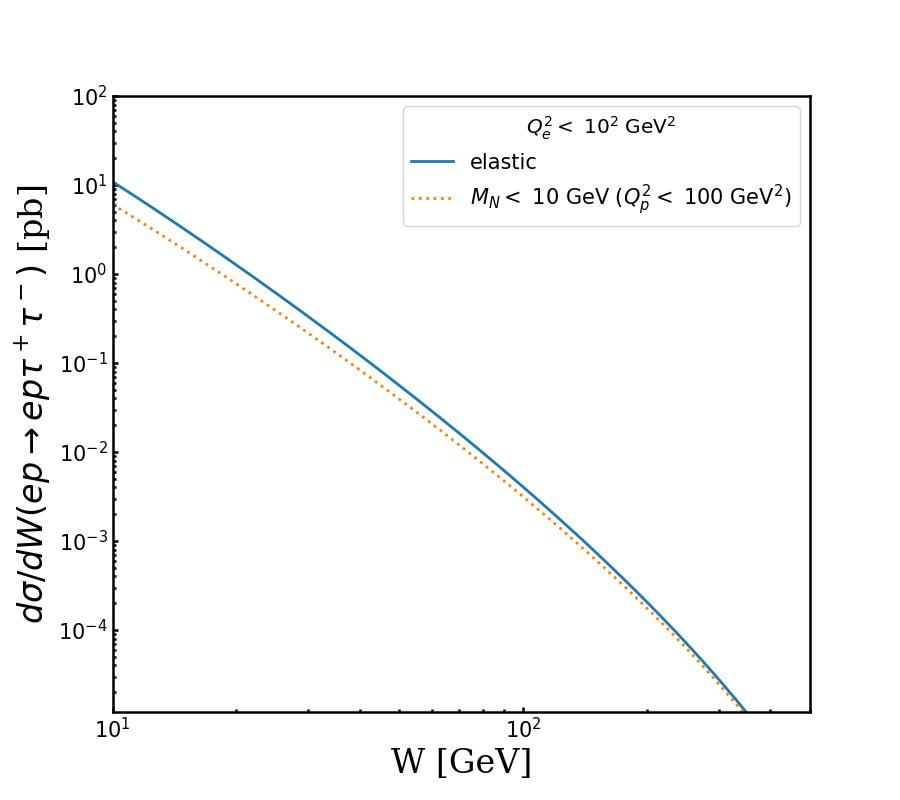
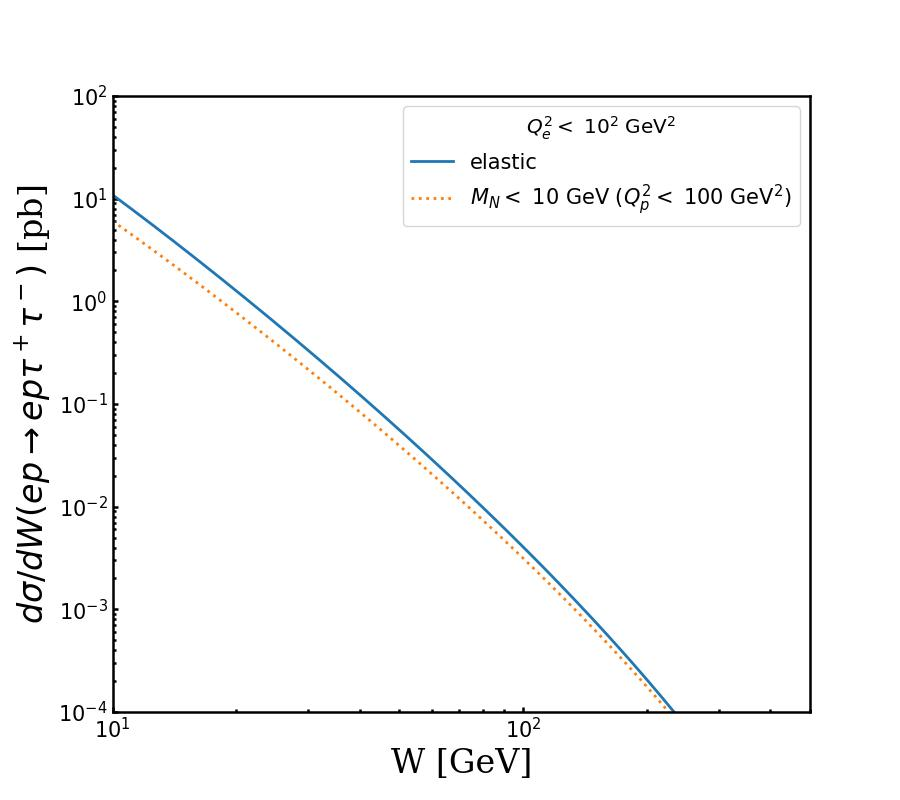
cepgen-lpair
cepgen-lpair

diff --git a/cepgen-lpair/lpair_tau_tau_E/compare_mll_distributions.py b/cepgen-lpair/lpair_tau_tau_E/compare_mll_distributions.py
@@ -82,6 +82,23 @@ def compare_distributions(filename):
     print("Area under the curve for q2prime (quasi-elastic):", area_q2prime_QE)
 
 
+
+
+    # Print histograms as text
+    print("\nHistogram contents (Mll):")
+    hist_Mll_E.Print()
+    hist_Mll_QE.Print()
+
+    print("\nHistogram contents (Yll):")
+    hist_Yll_E.Print()
+    hist_Yll_QE.Print()
+
+    print("\nHistogram contents (q2prime):")
+    hist_q2prime_E.Print()
+    hist_q2prime_QE.Print()
+
+
+
     # Plot histograms for Mll
     canvas_Mll = ROOT.TCanvas("canvas_Mll", "Mll Comparison", 800, 600)
     hist_Mll_E.SetLineColor(ROOT.kBlue)

diff --git a/dSigmadW_Final_ep_tautau_25April/trapint_ep_eptautau_Hamzeh.py b/dSigmadW_Final_ep_tautau_25April/trapint_ep_eptautau_Hamzeh.py
@@ -80,7 +80,7 @@ wv2, int_el = trap_integ(wv, el)
 
 fig, ax = plt.subplots(figsize = (9.0, 8.0))
 ax.set_xlim(10.0, 500.0)
-ax.set_ylim(1.20e-5, 100.1e0)
+ax.set_ylim(1.0e-4, 100.0e0)
 
 
 inel_label = ('$M_N<$ ${{{:g}}}$ GeV').format(inel[0]) + (' ($Q^2_p<$ ${{{:g}}}$ GeV$^2$)').format(inel[2])

diff --git a/dSigmadW_Final_ep_tautau_20April/trapint_ep_eptautau_Hamzeh.py b/dSigmadW_Final_ep_tautau_20April/trapint_ep_eptautau_Hamzeh.py
@@ -80,7 +80,7 @@ wv2, int_el = trap_integ(wv, el)
 
 fig, ax = plt.subplots(figsize = (9.0, 8.0))
 ax.set_xlim(10.0, 500.0)
-ax.set_ylim(1.20e-5, 100.1e0)
+ax.set_ylim(1.0e-4, 100.e0)
 
 
 inel_label = ('$M_N<$ ${{{:g}}}$ GeV').format(inel[0]) + (' ($Q^2_p<$ ${{{:g}}}$ GeV$^2$)').format(inel[2])
